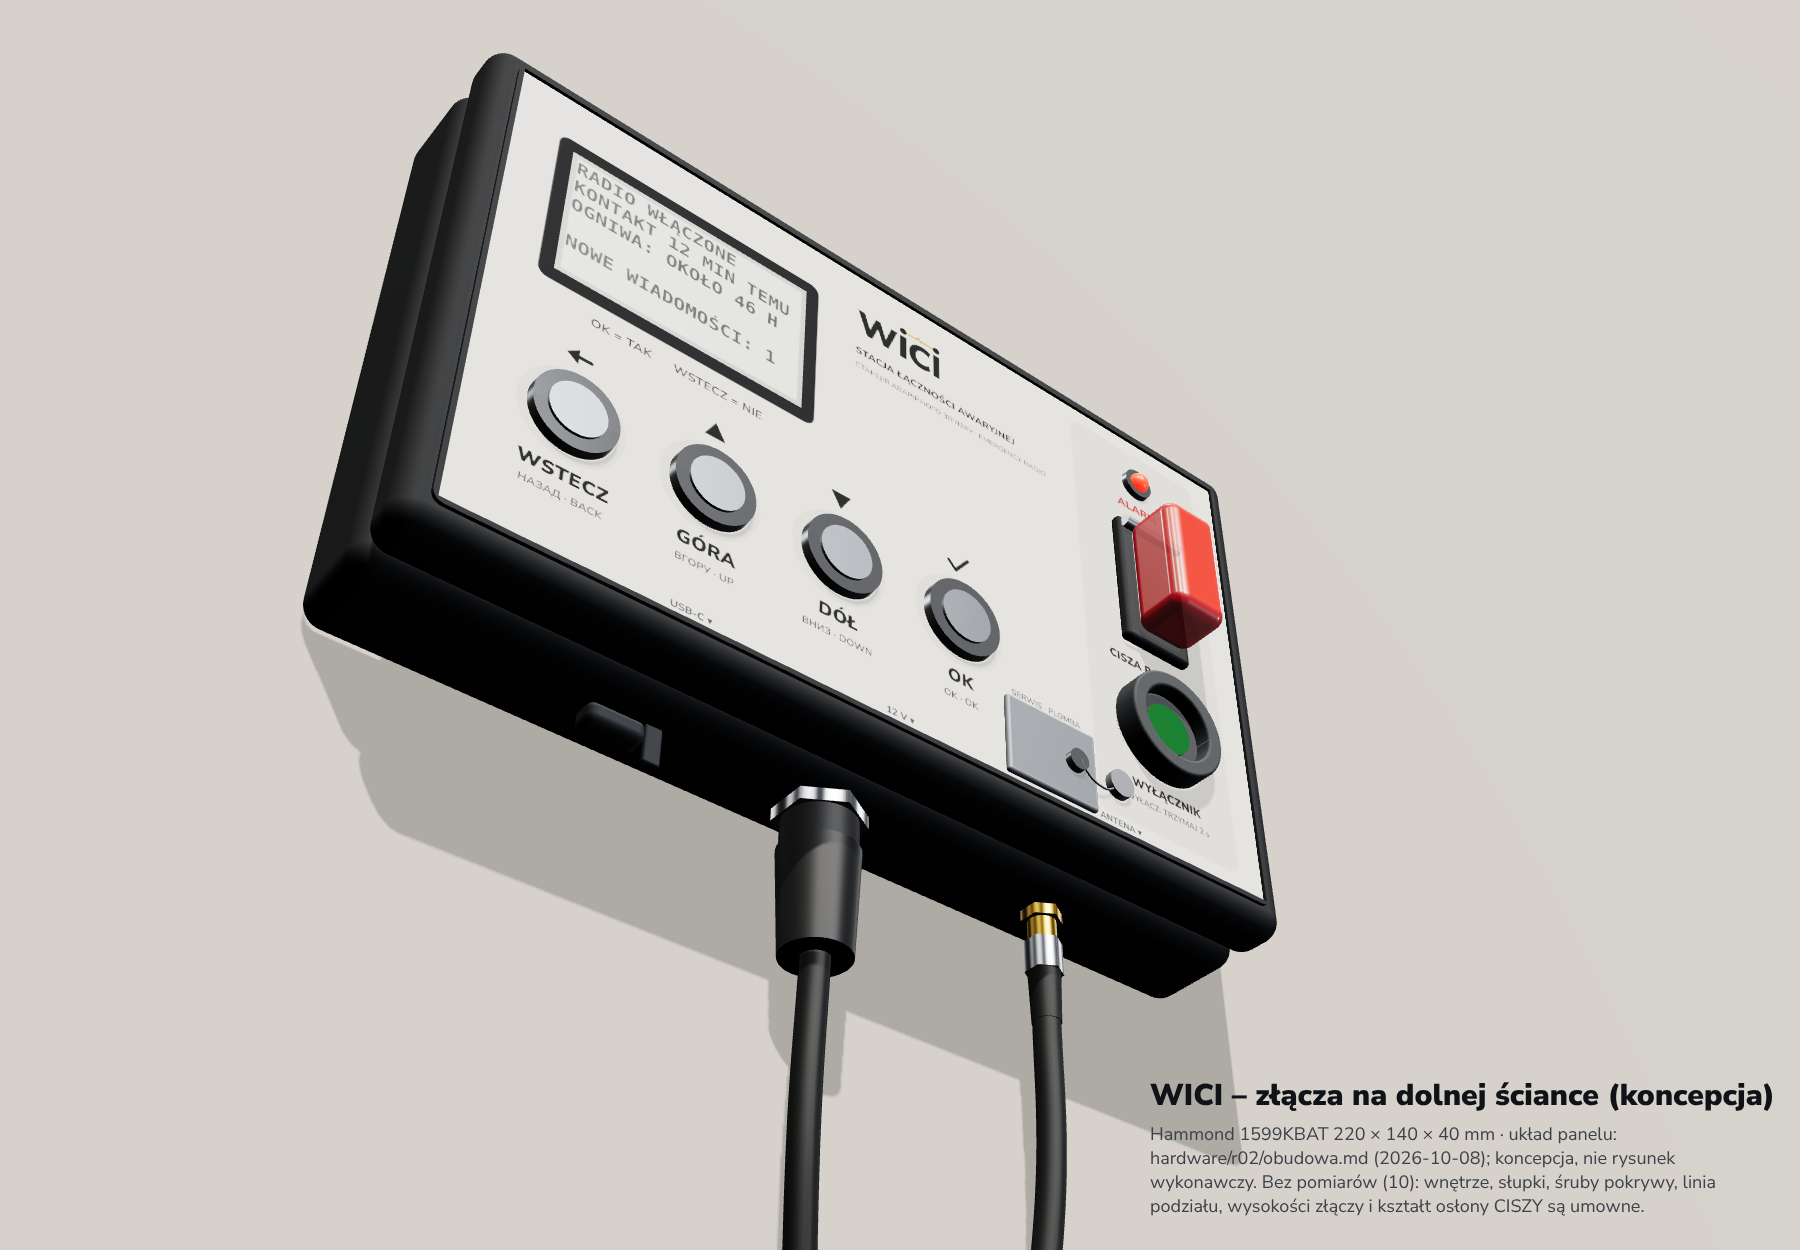
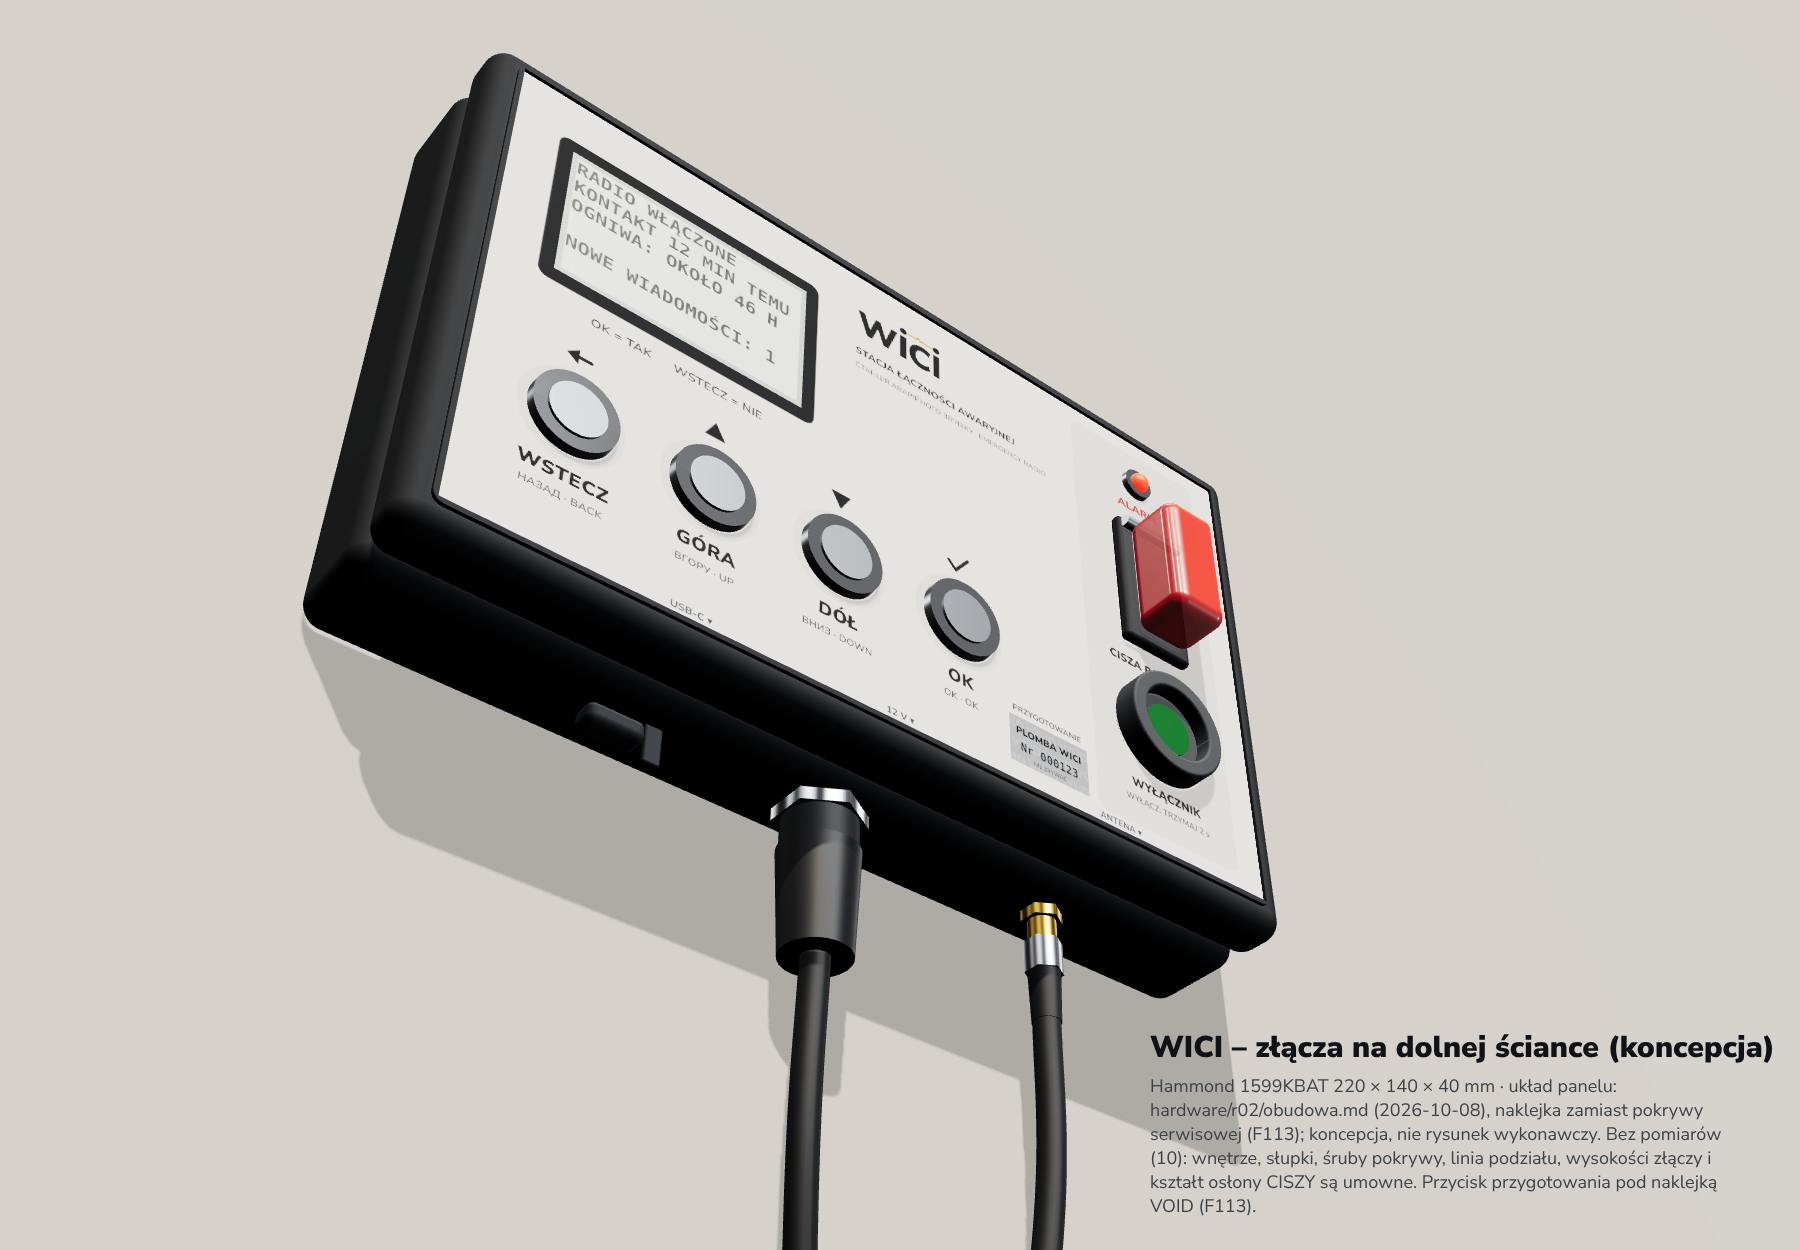
Preparation button behind a VOID sticker; F113 on logging preparation mode
The pilot enclosure drops the sealed service cover: the preparation button sits
behind a 4 mm hole under a numbered VOID sticker. F113 records the decision and
proposes a monotonic counter of preparation-mode entries with the last changes
kept outside the diagnostic ring, shown in STAN and compared with the sticker
number in the quarterly check.

Claude-Session: https://claude.ai/code/session_01C14MPViLTkhq6RZ5PR56Cy

Changed region(s): [[0.6222, 0.8112, 0.9956, 0.9672], [0.56, 0.5616, 0.6533, 0.6552]]

diff --git a/hardware/obudowa/render/stacja.html b/hardware/obudowa/render/stacja.html
@@ -172,8 +172,8 @@ for (const b of U.panel) {
     text("WYŁĄCZNIK", u, v + 18.5, 3.4, 900);
     text("WYŁĄCZ: TRZYMAJ 2 s", u, v + 22.6, 2.3, 700, "#4a4f57");
   }
-  if (b.kind === "service") {
-    text("SERWIS · PLOMBA", u, v - b.size[1] / 2 - 1.5, 2.2, 700, "#4a4f57");
+  if (b.kind === "seal") {
+    text("PRZYGOTOWANIE", u, v - b.size[1] / 2 - 1.6, 2.2, 800, "#4a4f57");
   }
 }
 // connector hints on the bottom edge
@@ -232,16 +232,19 @@ for (const p of U.panel) {
         x, y - 1, FRONT + 3 + 7.5);
     add(new THREE.CylinderGeometry(1.6, 1.6, 18, 32), STEEL, x, y + 16.5, FRONT + 4, [0, 0, Math.PI / 2]);
   }
-  if (p.kind === "service") {
-    const [sw, sh] = p.size;
-    add(new RoundedBoxGeometry(sw, sh, 1.6, 4, 1.5), mat("#8e9399", { metalness: 0.6, roughness: 0.45 }), x, y, FRONT + 0.8);
-    add(cylZ(2.6, 2.6, 2.2), STEEL, x + 6, y, FRONT + 2.2, FACE);
-    // seal wire from the screw head to a lead seal hanging on the foil
-    const wire = new THREE.CatmullRomCurve3([
-      new THREE.Vector3(x + 6, y, FRONT + 3.2), new THREE.Vector3(x + 10, y - 3, FRONT + 2.6),
-      new THREE.Vector3(x + 15, y - 3, FRONT + 1.8), new THREE.Vector3(x + 18, y - 1, FRONT + 1.5)]);
-    add(new THREE.TubeGeometry(wire, 40, 0.25, 8), STEEL_DARK, 0, 0, 0);
-    add(cylZ(3.4, 3.4, 1.8, 40), mat("#7d8086", { metalness: 0.4, roughness: 0.8 }), x + 19.5, y + 0.5, FRONT + 1.2, FACE);
+  if (p.kind === "seal") {  // numbered VOID sticker over the preparation button hole
+    const [sw, sh] = p.size, k = 40;
+    const c = document.createElement("canvas"); c.width = sw * k; c.height = sh * k;
+    const t = c.getContext("2d");
+    t.fillStyle = "#c9ccd0"; t.fillRect(0, 0, c.width, c.height);
+    t.fillStyle = "rgba(255,255,255,0.35)"; t.font = `900 ${3.2 * k}px "Nunito Sans"`; t.textAlign = "center";
+    for (let i = -1; i < 4; i++) for (let j = 0; j < 3; j++) t.fillText("VOID", (i * 9 + (j % 2) * 4.5) * k, (j * 4.5 + 3.4) * k);
+    t.fillStyle = "#15181c"; t.font = `900 ${2.6 * k}px "Nunito Sans"`;
+    t.fillText("PLOMBA WICI", c.width / 2, 4.4 * k);
+    t.font = `700 ${3.0 * k}px "DejaVu Mono"`; t.fillText("Nr 000123", c.width / 2, 8.6 * k);
+    t.font = `600 ${1.5 * k}px "Nunito Sans"`; t.fillText("NIE ZRYWAĆ", c.width / 2, 11 * k);
+    const tex = new THREE.CanvasTexture(c); tex.colorSpace = THREE.SRGBColorSpace; tex.anisotropy = 8;
+    add(new THREE.PlaneGeometry(sw, sh), mat("#ffffff", { map: tex, metalness: 0.55, roughness: 0.35 }), x, y, FRONT + 0.32).castShadow = false;
   }
 }
 
@@ -281,7 +284,7 @@ document.querySelector("#caption b").textContent =
   VIEW === "front" ? "WICI – koncepcja stacji (założenia na 2026-10-11)" : "WICI – złącza na dolnej ściance (koncepcja)";
 document.querySelector("#caption span").textContent =
   `${U.enclosure.model} ${W} × ${H} × ${D} mm · układ panelu: ${U.source}. ` +
-  `Bez pomiarów (${U.unmeasured.length}): wnętrze, słupki, śruby pokrywy, linia podziału, wysokości złączy i kształt osłony CISZY są umowne.`;
+  `Bez pomiarów (${U.unmeasured.length}): wnętrze, słupki, śruby pokrywy, linia podziału, wysokości złączy i kształt osłony CISZY są umowne. Przycisk przygotowania pod naklejką VOID (F113).`;
 window.RENDER_DONE = true;
 </script>
 </body>

diff --git a/hardware/obudowa/zalozenia.py b/hardware/obudowa/zalozenia.py
@@ -42,7 +42,8 @@ DISPLAY = {
 }
 # kind: nav = E-Switch PV6 (hole 16 mm), power = PV6 recessed ~3 mm in a foil ring,
 # guard = toggle switch with flip guard (CW Industries GT-4R), led = 5 mm alarm LED,
-# service = sealed service cover ~25 x 20 mm over the preparation button.
+# seal = hole over the preparation button covered by a numbered VOID sticker (F113;
+# replaces the sealed service cover of obudowa.md for the pilot).
 PANEL = [
     {"id": "WSTECZ", "kind": "nav", "xy": (30.0, 98.0), "hole": 16.0, "uk": "НАЗАД", "en": "BACK"},
     {"id": "GÓRA", "kind": "nav", "xy": (62.0, 98.0), "hole": 16.0, "uk": "ВГОРУ", "en": "UP"},
@@ -51,7 +52,7 @@ PANEL = [
     {"id": "ALARM", "kind": "led", "xy": (185.0, 22.0), "hole": 5.0},
     {"id": "CISZA", "kind": "guard", "xy": (185.0, 58.0), "hole": None},
     {"id": "WYŁĄCZNIK", "kind": "power", "xy": (185.0, 100.0), "hole": 16.0},
-    {"id": "SERWIS", "kind": "service", "xy": (150.0, 122.0), "size": (25.0, 20.0)},
+    {"id": "PRZYGOTOWANIE", "kind": "seal", "xy": (150.0, 122.0), "hole": 4.0, "size": (22.0, 12.0)},
 ]
 # Bottom wall, x from the left outer edge. Axis height above the board is a measurement.
 CONNECTORS = [
@@ -142,7 +143,7 @@ def n1_holes() -> list[dict]:
 def layout() -> dict:
     """Concept data passed to render/stacja.html; derived only from CONCEPT above."""
     return {
-        "source": "hardware/r02/obudowa.md (2026-10-08); koncepcja, nie rysunek wykonawczy",
+        "source": "hardware/r02/obudowa.md (2026-10-08), naklejka zamiast pokrywy serwisowej (F113); koncepcja, nie rysunek wykonawczy",
         "enclosure": ENCLOSURE,
         "display": DISPLAY,
         "panel": PANEL,

diff --git a/tests/test_obudowa.py b/tests/test_obudowa.py
@@ -72,6 +72,11 @@ class PanelConcept(unittest.TestCase):
         for bx0, by0, bx1, by1 in boxes:
             self.assertTrue(x0 <= bx0 and bx1 <= x1 and y0 <= by0 and by1 <= y1, (bx0, by0, bx1, by1))
 
+    def test_seal_sticker_covers_hole(self):
+        seal = self.parts["PRZYGOTOWANIE"]
+        self.assertEqual(seal["kind"], "seal")
+        self.assertGreaterEqual(min(seal["size"]) - seal["hole"], 6.0)  # >= 3 mm adhesive around the hole
+
     def test_connectors_on_bottom_wall(self):
         w, _, _ = z.ENCLOSURE["outer"]
         xs = sorted(c["x"] for c in z.CONNECTORS)

diff --git a/docs/review.md b/docs/review.md
@@ -122,6 +122,7 @@ Podział na lokalną stronę, osobny transport, trwałą kolejkę aplikacji i os
 | F110 | Przegląd specyfikacji pod kątem F109 (2026-10-08): (1) kontrola radia opisana słowem synchronizacji, które po resecie wraca do wartości domyślnej, nie działa w profilu LoRa pilotażu (słowo RNode w SX1262 równe domyślnemu) i zakładała numer części, którego SX1262 nie ma; (2) kierunek KISS do komputera bez zasad bufora i zapisu częściowego; (3) brak limitu czasu migawki wysyłanej wierszami i zasady ponowienia po `stale`; (4) odbiór bez prób zatrzymanego laptopa, zmiany danych w migawce, ponowionego `close` po zdarzeniu nieblokującym i awarii radia w pracy; (5) instrukcja opiekuna i karty bez `radio_awaria`, choć to alarm krytyczny; (6) opis wpisu pierścienia i pola `lost` zdarzenia `radio` niepełny (odwołanie do wyjątku, wpis zwolniony przed zdarzeniem); ponadto oprogramowanie bez magazynu nie pokazuje ekranu alarmu awarii radia | [oprogramowanie](spec/oprogramowanie.md): kontrola radia według układu (P1: numer części i słowo synchronizacji; LoRa: `GetStatus` i `GetPacketType`, do potwierdzenia w implementacji LoRa); [radio](spec/radio.md): bufor KISS 1 KiB, zapis bez blokowania, bez ucinania ramek; [protokół USB](spec/protokol-usb.md): limit 3 s od ostatniego wiersza migawki, ponowienie po `stale` od razu, odwołanie zdarzenia `radio` w pierścieniu; [odbiór](spec/odbior.md): rozszerzony wiersz „Protokół USB” i nowy „Awaria radia” (pilotaż, pozycja i); [instrukcja](spec/instrukcja.md) i karty [PL](spec/karta.md), [UK](spec/karta-uk.md), [EN](spec/karta-en.md): „RADIO: AWARIA” z formularzem i gońcem; na kartach goniec przy każdym alarmie tylko, gdy droga jest bezpieczna, także przy napisach bez tego zastrzeżenia. Alarm awarii radia bez magazynu (wcześniej tylko wiersz 1 i dioda) poprawiony w oprogramowaniu: ekran dostaje same alarmy ([README](../firmware/README.md)). Otwarte: brzmienie UK i EN nowych zdań sprawdza T1 |
 | F111 | Audyt oprogramowania po F110 (2026-10-08), cztery obszary: magazyn, protokół USB i stacja, ekran i pętla główna, radio. USB i stacja: (1) `ack` spóźniony wobec ponowienia zatrzymywał wszystkie dalsze zdarzenia do nowego `sync`; (2) nowa rewizja TEST po nadaniu dawała od razu fałszywy `brak_potwierdzenia`; (3) `test` z laptopa przy WSTRZYMAJ dawał `stored` bez nadania; (4) strumień zdarzeń stawał po cichu (nowa epoka, zdarzenie nadpisane albo nieczytelne) i laptop o tym nie wiedział; (5) ponowione `silence` pytało jeszcze raz i mogło dać `not_confirmed` przy osiągniętym stanie; (6) `mark_read` dla wiadomości, która wypadła ze skrzynki, dawał `invalid`; (7) `released` mógł podać cudze `id` po odtworzeniu bloku. Ekran: (8) alarm nie zajmował wyboru języka po włączeniu (bez dźwięku do wyboru języka); (9) PRZEKAZANIE ZMIANY ucinało po cichu najstarsze zgłoszenia i wiersz zasilania; (10) potwierdzony alarm nie wracał przy nowej rewizji (np. wyższej pilności); (11) ekran alarmu nie odświeżał minut i nie schodził po ustąpieniu przyczyny; (12) alarmy, pytania i ostrzeżenia dłuższe niż ekran nie dawały się przewinąć; (13) po NIE w kontroli adresu kreator wysyłał zgłoszenia z odrzuconym adresem; (14) menu pozycji puste po nowej wiadomości; (15) język i ekran wracały po ZNISZCZ DANE; (16) `PREP` z portu mógł blokować pętlę do 60 s. Magazyn: (17) magazyn zatrzymany w pracy gasił alarmy zgłoszeń bez śladu na ekranie; (18) ustawienia ekranu i licznik czasu wracały do FRAM po ZNISZCZ DANE (także dokończonym przy starcie); (19) `tomb_floor` cofał się po odtworzeniu bloku pamięci zwolnionych; (20) zanik zasilania przy pierwszym formatowaniu zostawiał nową stację w `blad_pamieci`; (21) gniazda uszkodzone nie wracały do użytku po ZAMKNIJ ZDARZENIE. Radio: (22) przejście do ciszy z wyjątkiem przepuszczało datagram czekający w łączu (ruch przekazywany, ogłoszenie); (23) kontrola radia co 10 s nie działała pod stałym ruchem, więc układ po resecie mógł nadawać z ustawieniami domyślnymi; (24) po 24,8 doby bez nadawania (długa cisza) dług i bramka ogłoszeń wracały na 24,8 doby; (25) wiersze diagnostyczne odbioru blokowały pętlę, gdy terminal przestał czytać; (26) `P1TX` działał poza trybem przygotowania; (27) datagram z jednej ramki wypychał składany datagram z wielu ramek | [protokół USB](spec/protokol-usb.md): `snap_required` bez `re` przy przerwanym strumieniu, spóźniony `ack`, `test` przy WSTRZYMAJ (`invalid`, `paused`), ponowione `silence` bez pytania, `mark_read` dla wiadomości spoza skrzynki; [oprogramowanie](spec/oprogramowanie.md): alarm na wyborze języka, odświeżanie i zejście ekranu alarmu, alarm po nowej rewizji, `blad_pamieci` jako alarm, kolejność i „+N” w PRZEKAZANIU ZMIANY, `adres_brak` blokuje ZGŁOSZENIE; oprogramowanie stanowiska: poprawki 1–24 i 26–27 oraz częściowe ograniczenie 25, z testami na hoście (strumień zdarzeń, TEST, `silence`, `mark_read`, alarmy ekranu, PRZEKAZANIE ZMIANY, `adres_brak`, `blad_pamieci`); 19–21 sprawdzone skryptami audytu (`tomb_floor` stały, gniazdo uszkodzone wolne po zamknięciu, 0 z 8000 przerwanych pierwszych startów bez magazynu wobec 553); [README](../firmware/README.md). Otwarte: diagnostyka odbioru sprawdza tylko dostępność miejsca, więc długi wiersz nadal może blokować port (25); kolejka zgłoszeń stoi przy zatrzymanym magazynie do restartu; kontrola rejestrów radia tuż przed nadaniem (dziś do 10 s po resecie układu); listy fraz i obiektów ucinają pozycję na 20 znakach; znacznik NIE w kontroli adresu ginie przy restarcie przez watchdog; protokół przyjmuje sekwencje `\u` poza tablicą SA1; poprawki 22–25 do sprawdzenia na płytce |
 | F112 | Przegląd forów i dokumentacji społeczności MeshCore i Meshtastic (2026-10-09) po sugestiach z publikacji projektu: (1) Meshtastic na 869,525 MHz z szerokością 250 kHz zajmuje całe podpasmo, więc węższy kanał D11 omija tylko RX2 LoRaWAN; (2) brak kryterium istotnego zajęcia kanału i pomiaru tła szumowego przy zasilaniu awaryjnym obiektu; (3) tryb odbioru SX1262 nieokreślony, a model łączył czułość −124 dBm z trybu ze wzmocnieniem (5,3 mA) z prądem 4,6 mA trybu oszczędnego, domyślnego po resecie; profil ustala tryb ze wzmocnieniem, model energii zostaje (różnica 0,7 mA, poniżej 2% dopuszczalnego poboru dla W23); (4) płytki z zewnętrznym wzmacniaczem (Heltec V4) bez wykluczenia; (5) brak uszczelnienia złączy zewnętrznych i ich kontroli w przeglądzie; (6) brak próby samoczynnego startu po całkowitym zaniku 12 V | poprawione w koncepcji (03, 07 T2, 08 D11 i etap 0, 02) oraz w specyfikacji (radio, odbiór, projekt); rozważone i odrzucone zmiany protokołu i logiki przekazywania opisuje [rozdział 03](concept/03-dostepne-rozwiazania.html#spolecznosci-meshcore-i-meshtastic); pomiary w etapie 0, T4 i T5 niewykonane |
+| F113 | Pokrywa serwisowa i tryb przygotowania (2026-10-11, przy szkielecie obudowy): (1) pokrywa ze śrubą plombową i plombą ołowianą to osobna część frontu z wkładką gwintowaną, a przy 6–8 stacjach pilotażu obsługiwanych przez zespół projektu daje tylko wykrycie wejścia, tak jak tańsza naklejka VOID wymieniona w [obudowie R02](../hardware/r02/obudowa.md#elementy-panelu); (2) plomba wykrywa wejście tylko wtedy, gdy ktoś ją sprawdzi, i da się ją podrobić, a stacja nie zapisuje wejść w tryb przygotowania: dziennik zdarzeń stacji jest diagnostycznym pierścieniem, który nadpisuje najstarsze bloki ([pamięć FRAM](spec/oprogramowanie.md#pamięć-fram)), więc nie odróżni zmiany karty odbiorcy, adresu ani PRZENIEŚ STACJĘ wykonanej bez wiedzy osoby utrzymującej system | (1) przyjęte dla pilotażu: przycisk przygotowania za otworem Ø4 mm pod numerowaną naklejką VOID, numer w ewidencji jak numer plomby ([szkielet obudowy](../hardware/obudowa/README.md)); teksty specyfikacji o „plombowanej pokrywie” zmienia się po decyzji (2); pokrywa z plombą wraca do oceny przy wydaniu. (2) do decyzji, propozycja: licznik wejść w tryb przygotowania, tylko rosnący, w rekordzie dwóch kopii z licznikiem czasu (nie w pierścieniu), oraz ostatnie wpisy wejść poza pierścieniem diagnostycznym: czas pracy, rodzaj zmiany (`configure` z listą pól, `export`, `import`, obraz oprogramowania), skrót nowej karty odbiorcy; licznik i ostatnia zmiana widoczne w STAN i w PRZEKAZANIU ZMIANY; numer naklejki zapisuje się w ewidencji razem ze stanem licznika, a przegląd kwartalny porównuje oba; ZNISZCZ DANE nie zeruje licznika; próba w T2: wejście bez zmiany naklejki wykryte przez różnicę licznika, 1000 zdarzeń diagnostycznych nie usuwa wpisu wejścia; otwarte |
 
 ## F01: kontroler USB
 

diff --git a/hardware/obudowa/README.md b/hardware/obudowa/README.md
@@ -6,7 +6,7 @@
 
 ![Koncepcja stacji, złącza na dolnej ściance](render/stacja-zlacza.png)
 
-Render pokazuje założenia z [obudowy R02](../r02/obudowa.md) z 2026-10-08: Hammond 1599KBAT (220 × 140 × 40 mm), ekran Sharp LS027B7DH01A w oknie 61,5 × 38 mm, cztery przyciski PV6 w rozstawie 32 mm, kolumna ALARM, CISZA z osłoną i wyłącznik główny, plombowana pokrywa serwisowa oraz USB-C, 12 V (EN3) i SMA na dolnej ściance. Na ekranie jest ekran główny z [oprogramowania](../../docs/spec/oprogramowanie.md#ekran-i-przyciski-stacji), a na folii panelu nazwy przycisków z [karty](../../docs/spec/karta.md) i jej wersji UK i EN. Umowne są: wnętrze, słupki, śruby pokrywy, linia podziału, wysokość osi złączy, kształt osłony CISZY i kolor wyłącznika.
+Render pokazuje założenia z [obudowy R02](../r02/obudowa.md) z 2026-10-08: Hammond 1599KBAT (220 × 140 × 40 mm), ekran Sharp LS027B7DH01A w oknie 61,5 × 38 mm, cztery przyciski PV6 w rozstawie 32 mm, kolumna ALARM, CISZA z osłoną i wyłącznik główny, przycisk przygotowania za otworem Ø4 mm pod numerowaną naklejką VOID (zamiast plombowanej pokrywy serwisowej, [F113](../../docs/review.md)) oraz USB-C, 12 V (EN3) i SMA na dolnej ściance. Na ekranie jest ekran główny z [oprogramowania](../../docs/spec/oprogramowanie.md#ekran-i-przyciski-stacji), a na folii panelu nazwy przycisków z [karty](../../docs/spec/karta.md) i jej wersji UK i EN. Umowne są: wnętrze, słupki, śruby pokrywy, linia podziału, wysokość osi złączy, kształt osłony CISZY i kolor wyłącznika.
 
 ## Dwa etapy
 
